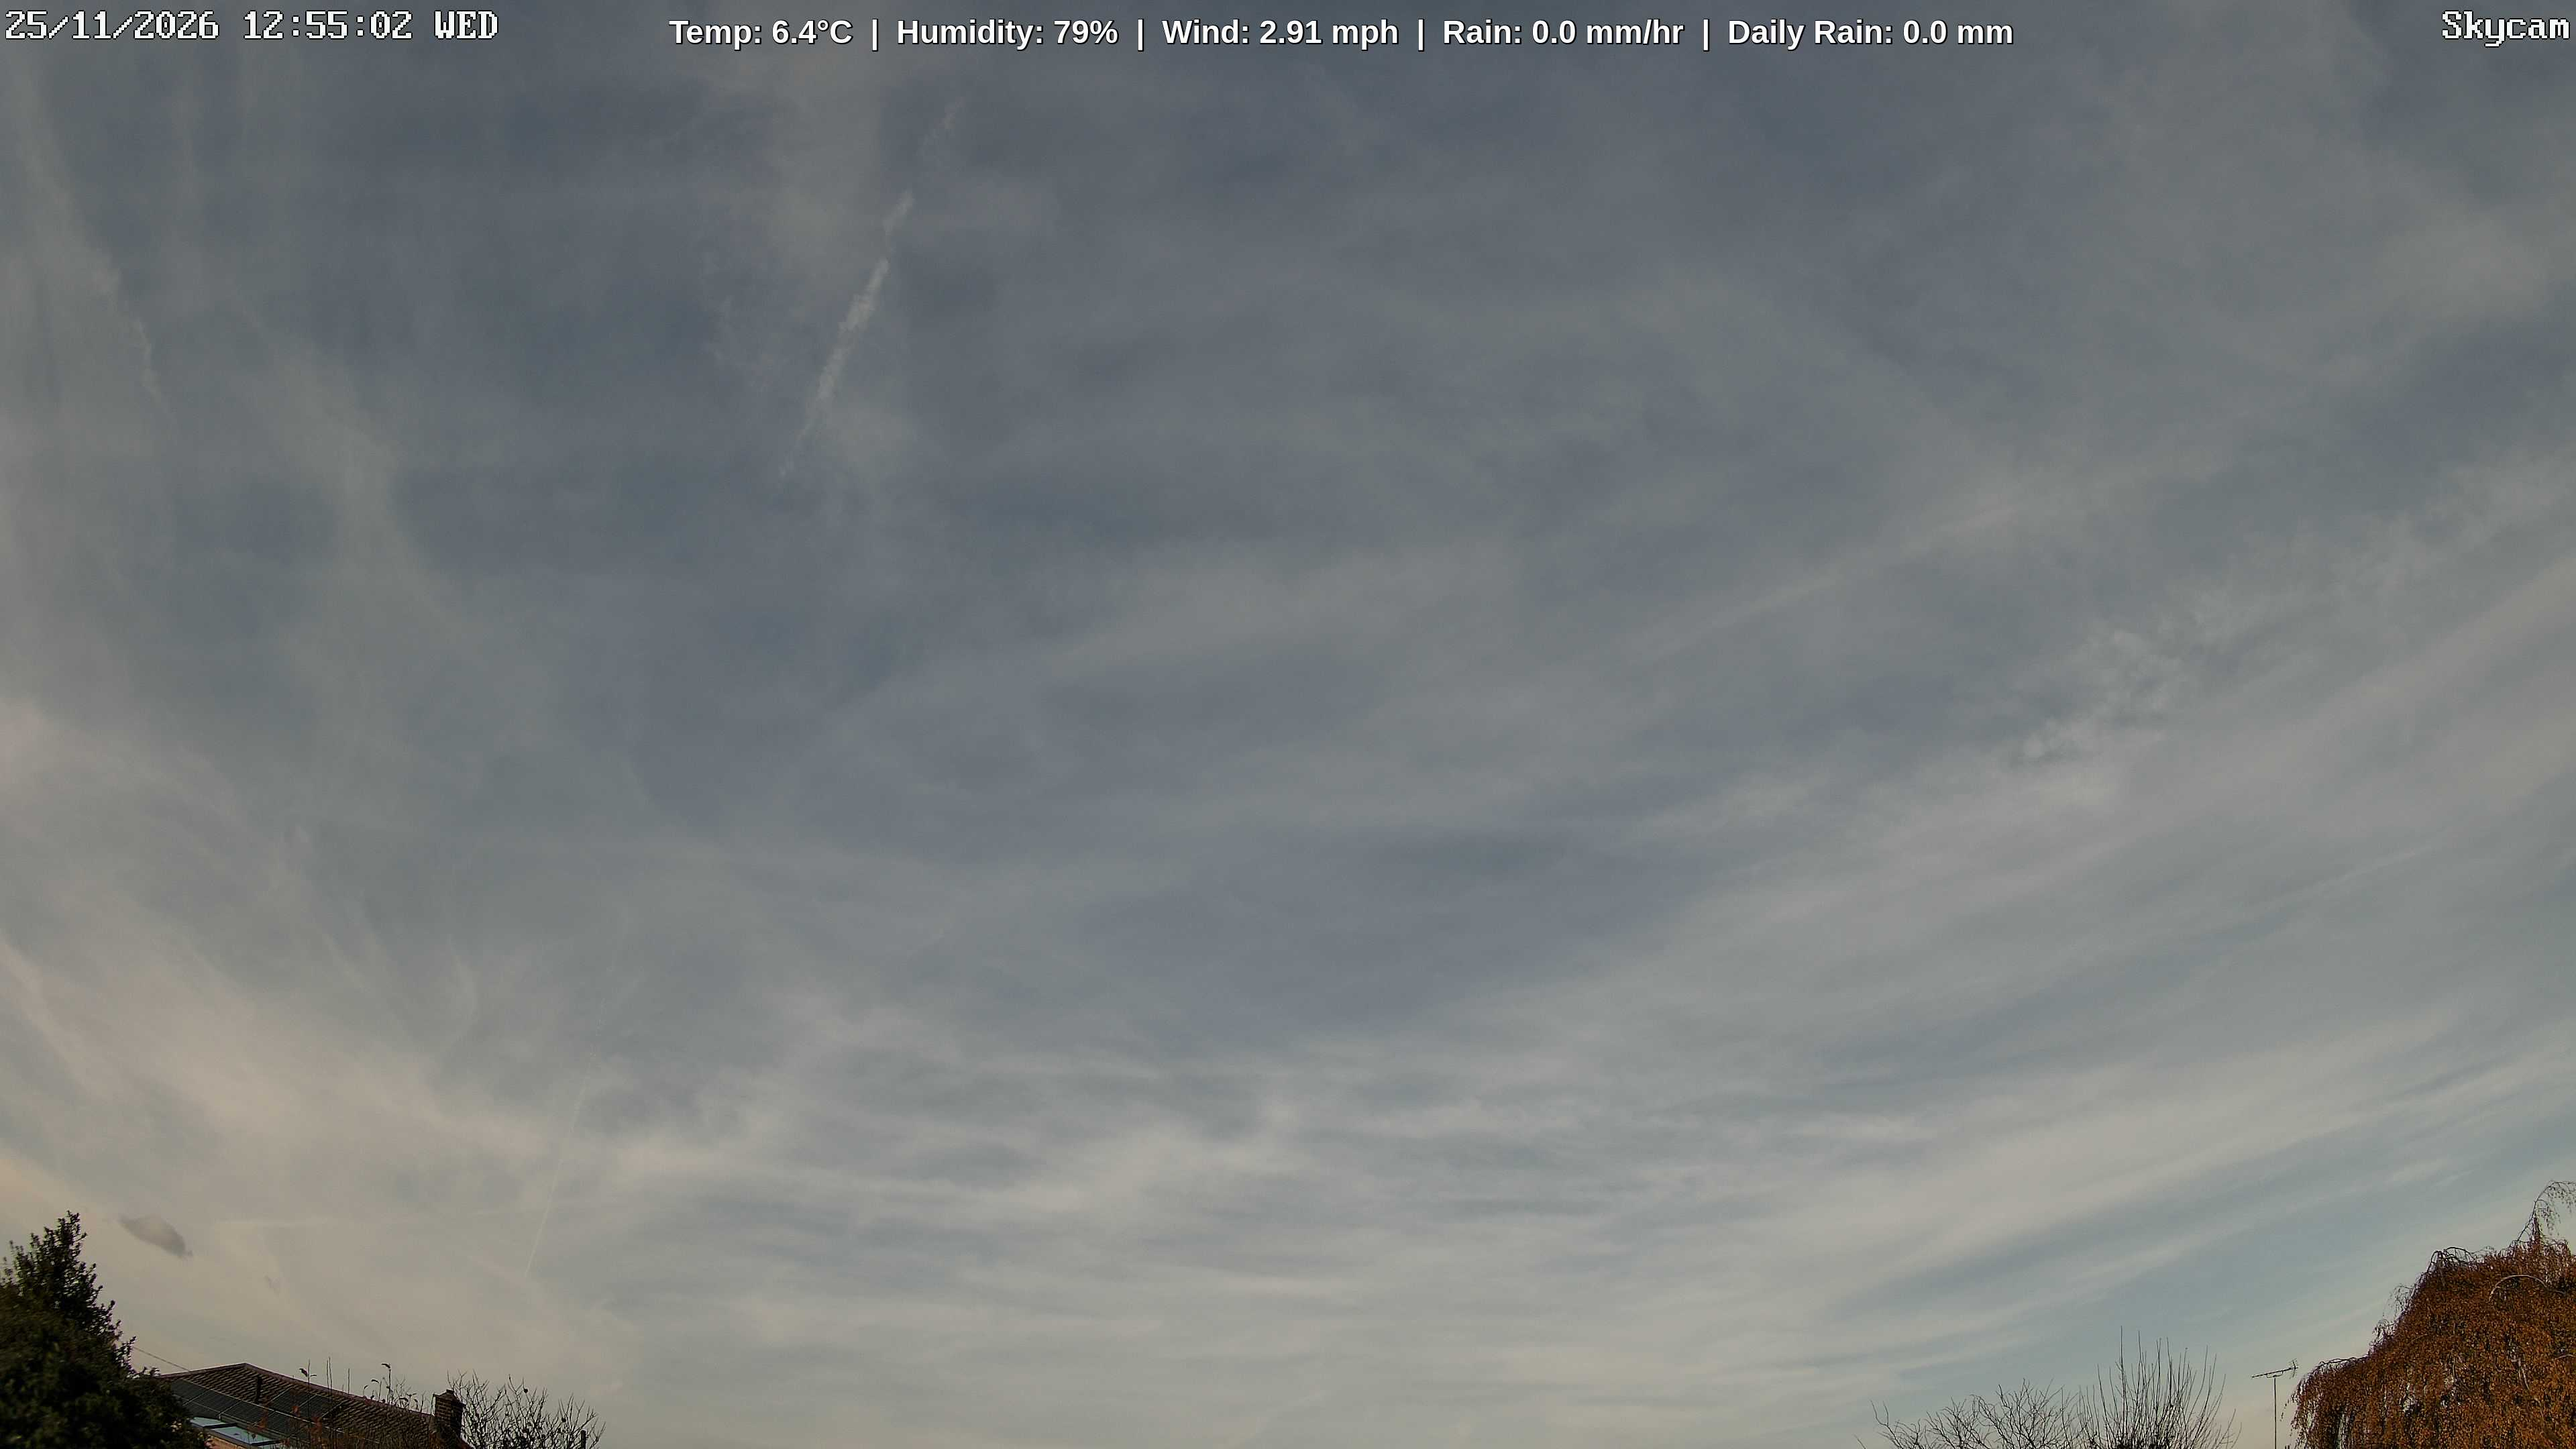
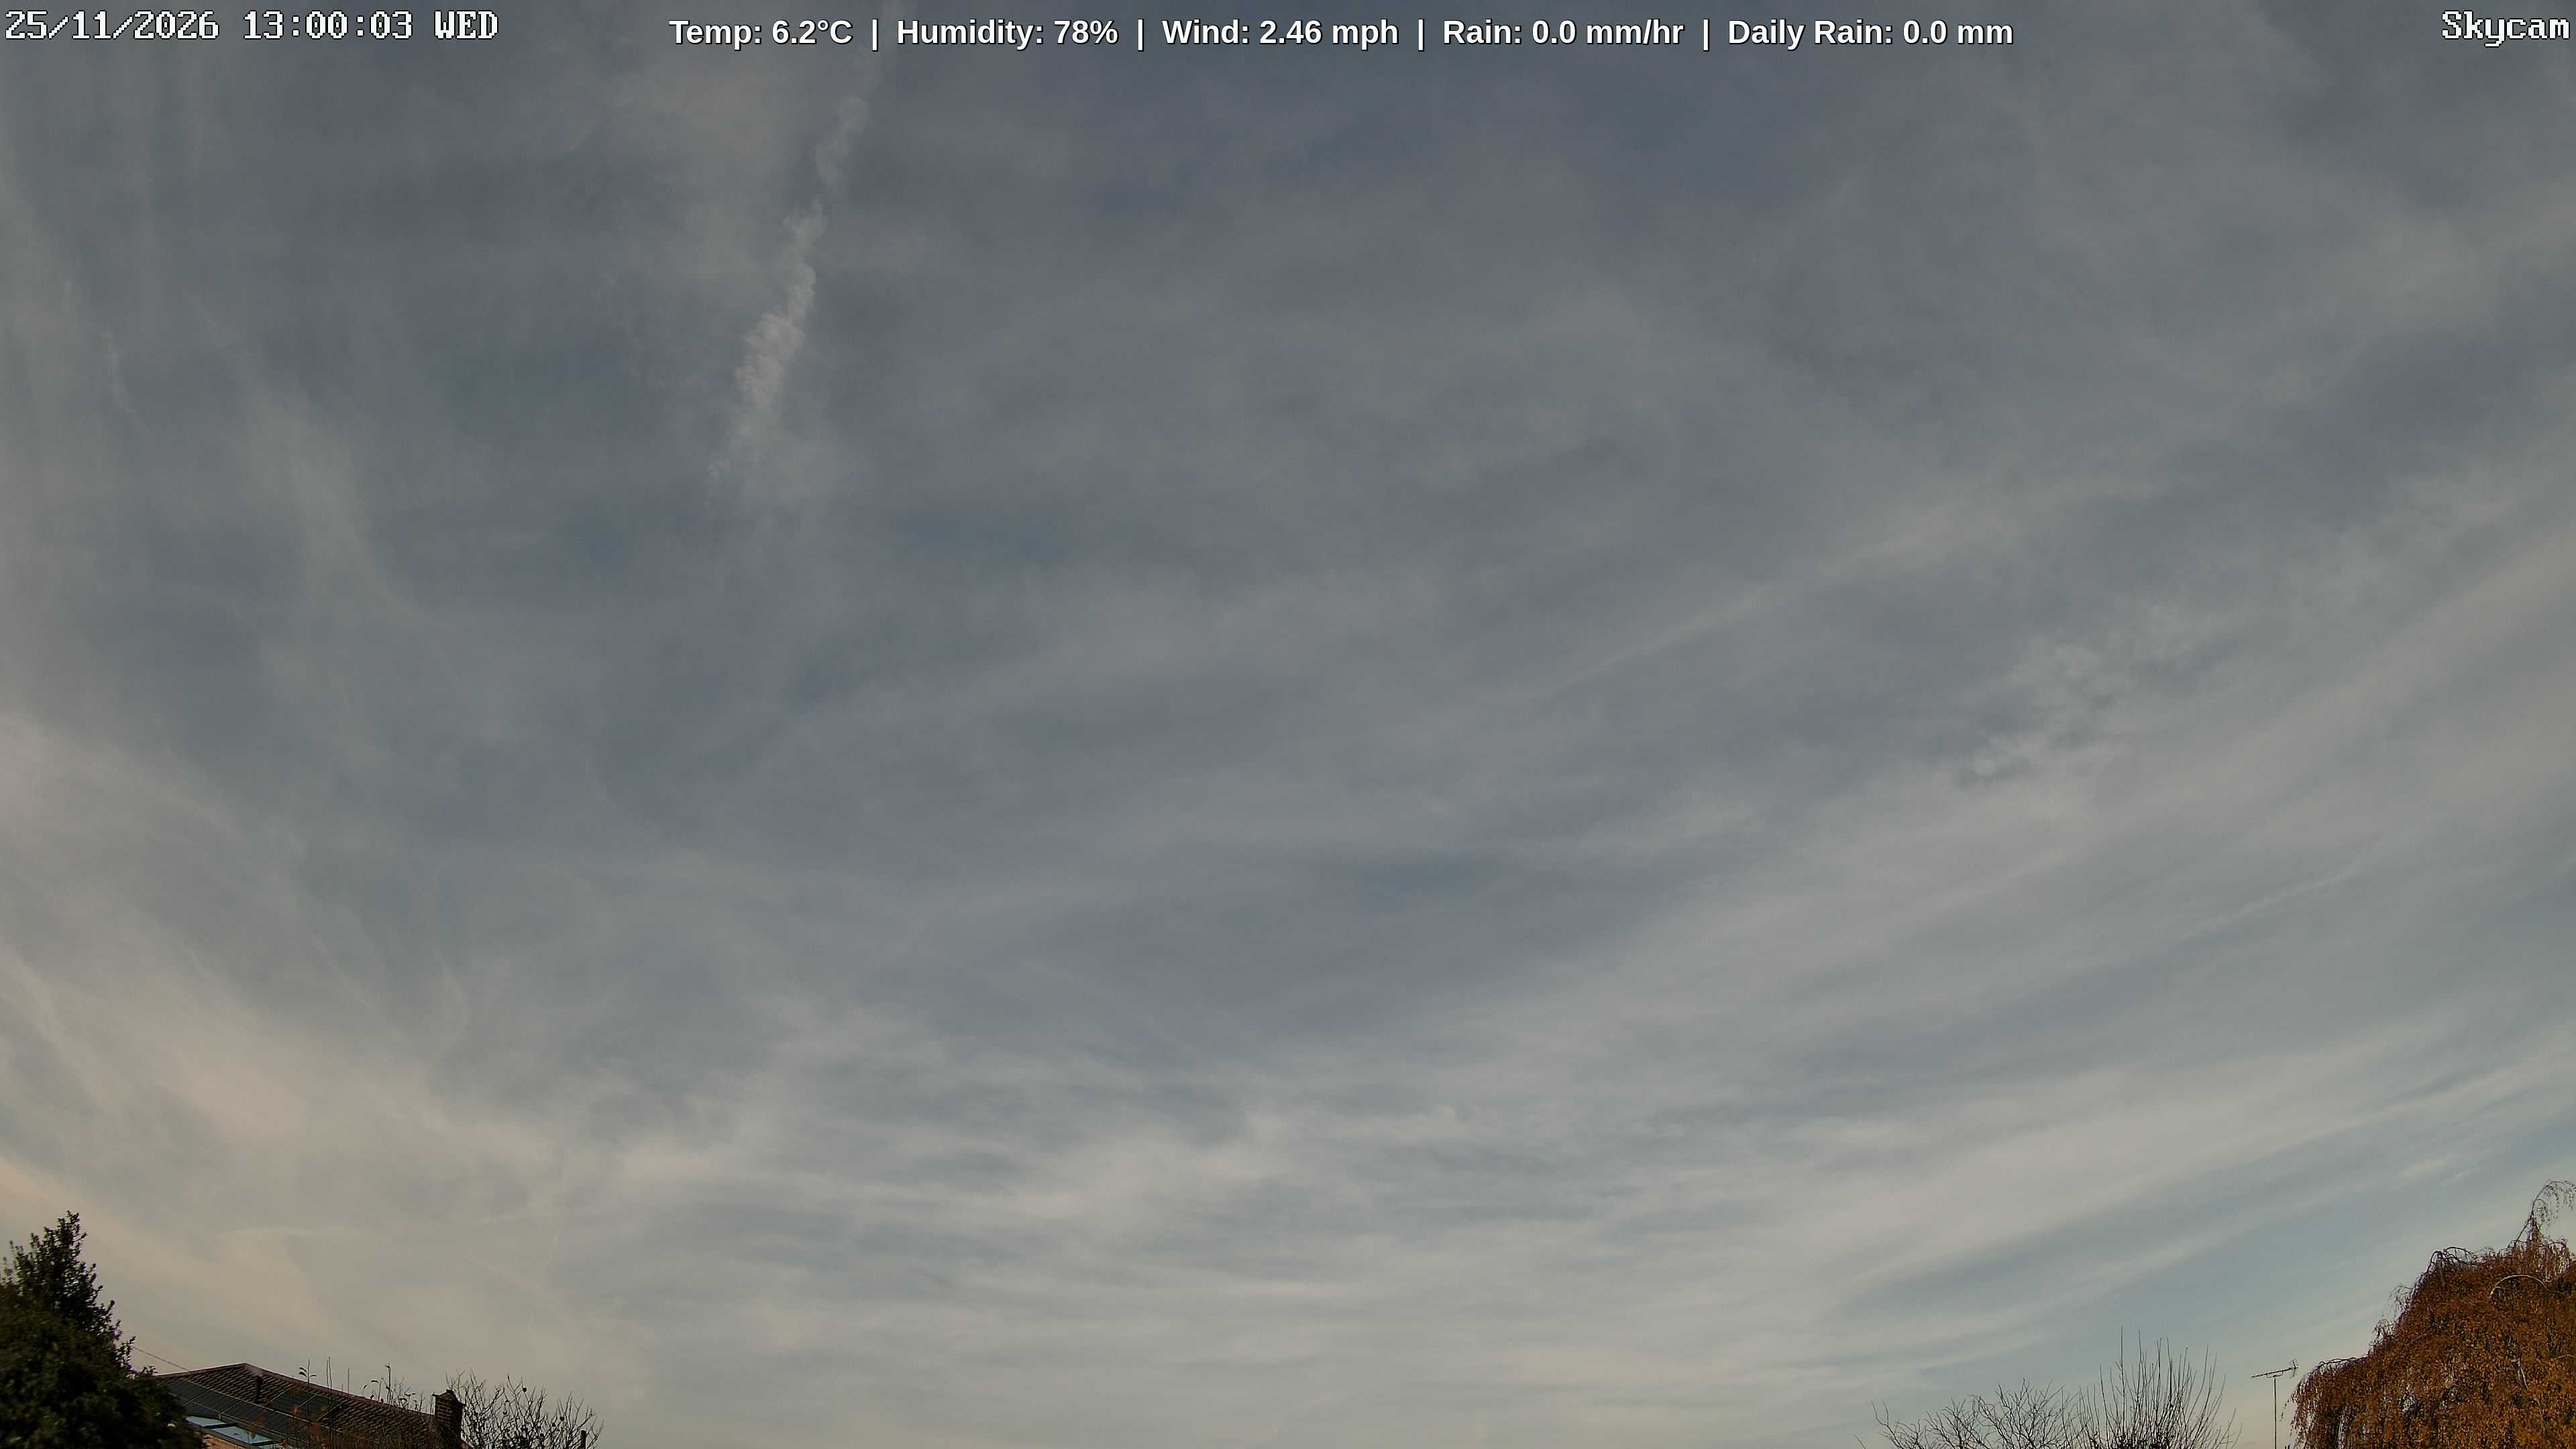
Update weather cam image with synchronized dual-layer weather metrics

diff --git a/index.html b/index.html
@@ -32,7 +32,7 @@
 </head>
 <body>
     <img id="weathercam" alt="Live Weather Snapshot">
-    <div class="banner">Temp: 6.4°C  |  Humidity: 79%  |  Wind: 2.91 mph  |  Rain: 0.0 mm/hr  |  Daily Rain: 0.0 mm</div>
+    <div class="banner">Temp: 6.2°C  |  Humidity: 78%  |  Wind: 2.46 mph  |  Rain: 0.0 mm/hr  |  Daily Rain: 0.0 mm</div>
 
     <script>
         // Shatter mobile cache engines by appending a live unique runtime timestamp 
